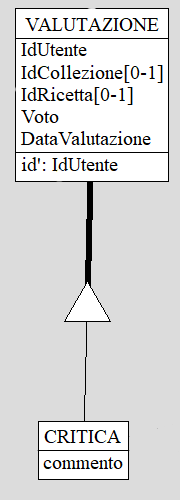
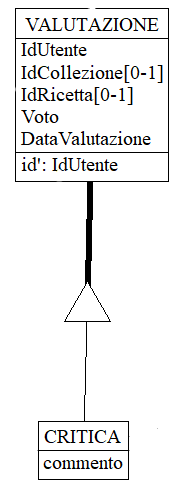
Fixed E/R and images

diff --git a/Report/report.tex b/Report/report.tex
@@ -137,14 +137,12 @@ cosi per le critiche
 Per le valutazioni abbiamo optato su 2 tipologie
 valutazione e critica, la prima consiste in un voto
 numerico, assegnabile da un utente generico, il secondo è una critica
-che aggiunge il commento, questa limitata da un obbiettivo.
-
-
+che aggiunge il commento, questa limitata da un obbiettivo.\\
 \section{Schema Concettuale}
 Il risultato finale è questo schema:
 \begin{figure}[H]
     \centering
-    \includegraphics[width=0.9\linewidth]{app_images/schema-concettuale.png}
+    \includegraphics[width=1\linewidth]{app_images/schema-concettuale.png}
 \end{figure}
 
 \subsection{Valutazione}
@@ -159,7 +157,7 @@ La necessità di imporre vincoli all'utente precendentemente espressa
 è implementata attraverso l'uso di obiettivi
 \begin{figure}[H]
     \centering
-    \includegraphics[width=0.45\linewidth]{app_images/obiettivo-concettuale.png}
+    \includegraphics[width=0.5\linewidth]{app_images/obiettivo-concettuale.png}
 \end{figure}
 \subsection{Categoria}
 Un altro limite atto a rendere la ricerca di ricette
@@ -168,7 +166,7 @@ che si relaziona con gli ingredienti da cui indirettamente si ricavano le catego
 per una ricetta.
 \begin{figure}[H]
     \centering
-    \includegraphics[width=0.6\linewidth]{app_images/categoria-nutrizionale.png}
+    \includegraphics[width=0.8\linewidth]{app_images/categoria-nutrizionale.png}
 \end{figure}
 \subsection{Collezione}
 Molto similmente alle valutazioni, per ottenere una versione limitata
@@ -176,7 +174,7 @@ ma libera a tutti gli utenti e una versione di collezione completa( la dieta )
 ma non disponibile immediatamente, abbiamo optato per una gerarchia.
 \begin{figure}[H]
     \centering
-    \includegraphics[width=0.6\linewidth]{app_images/collezione-concettuale.png}
+    \includegraphics[width=0.5\linewidth]{app_images/collezione-concettuale.png}
 \end{figure}
 \chapter{Progettazione logica}
 capitolo logica
